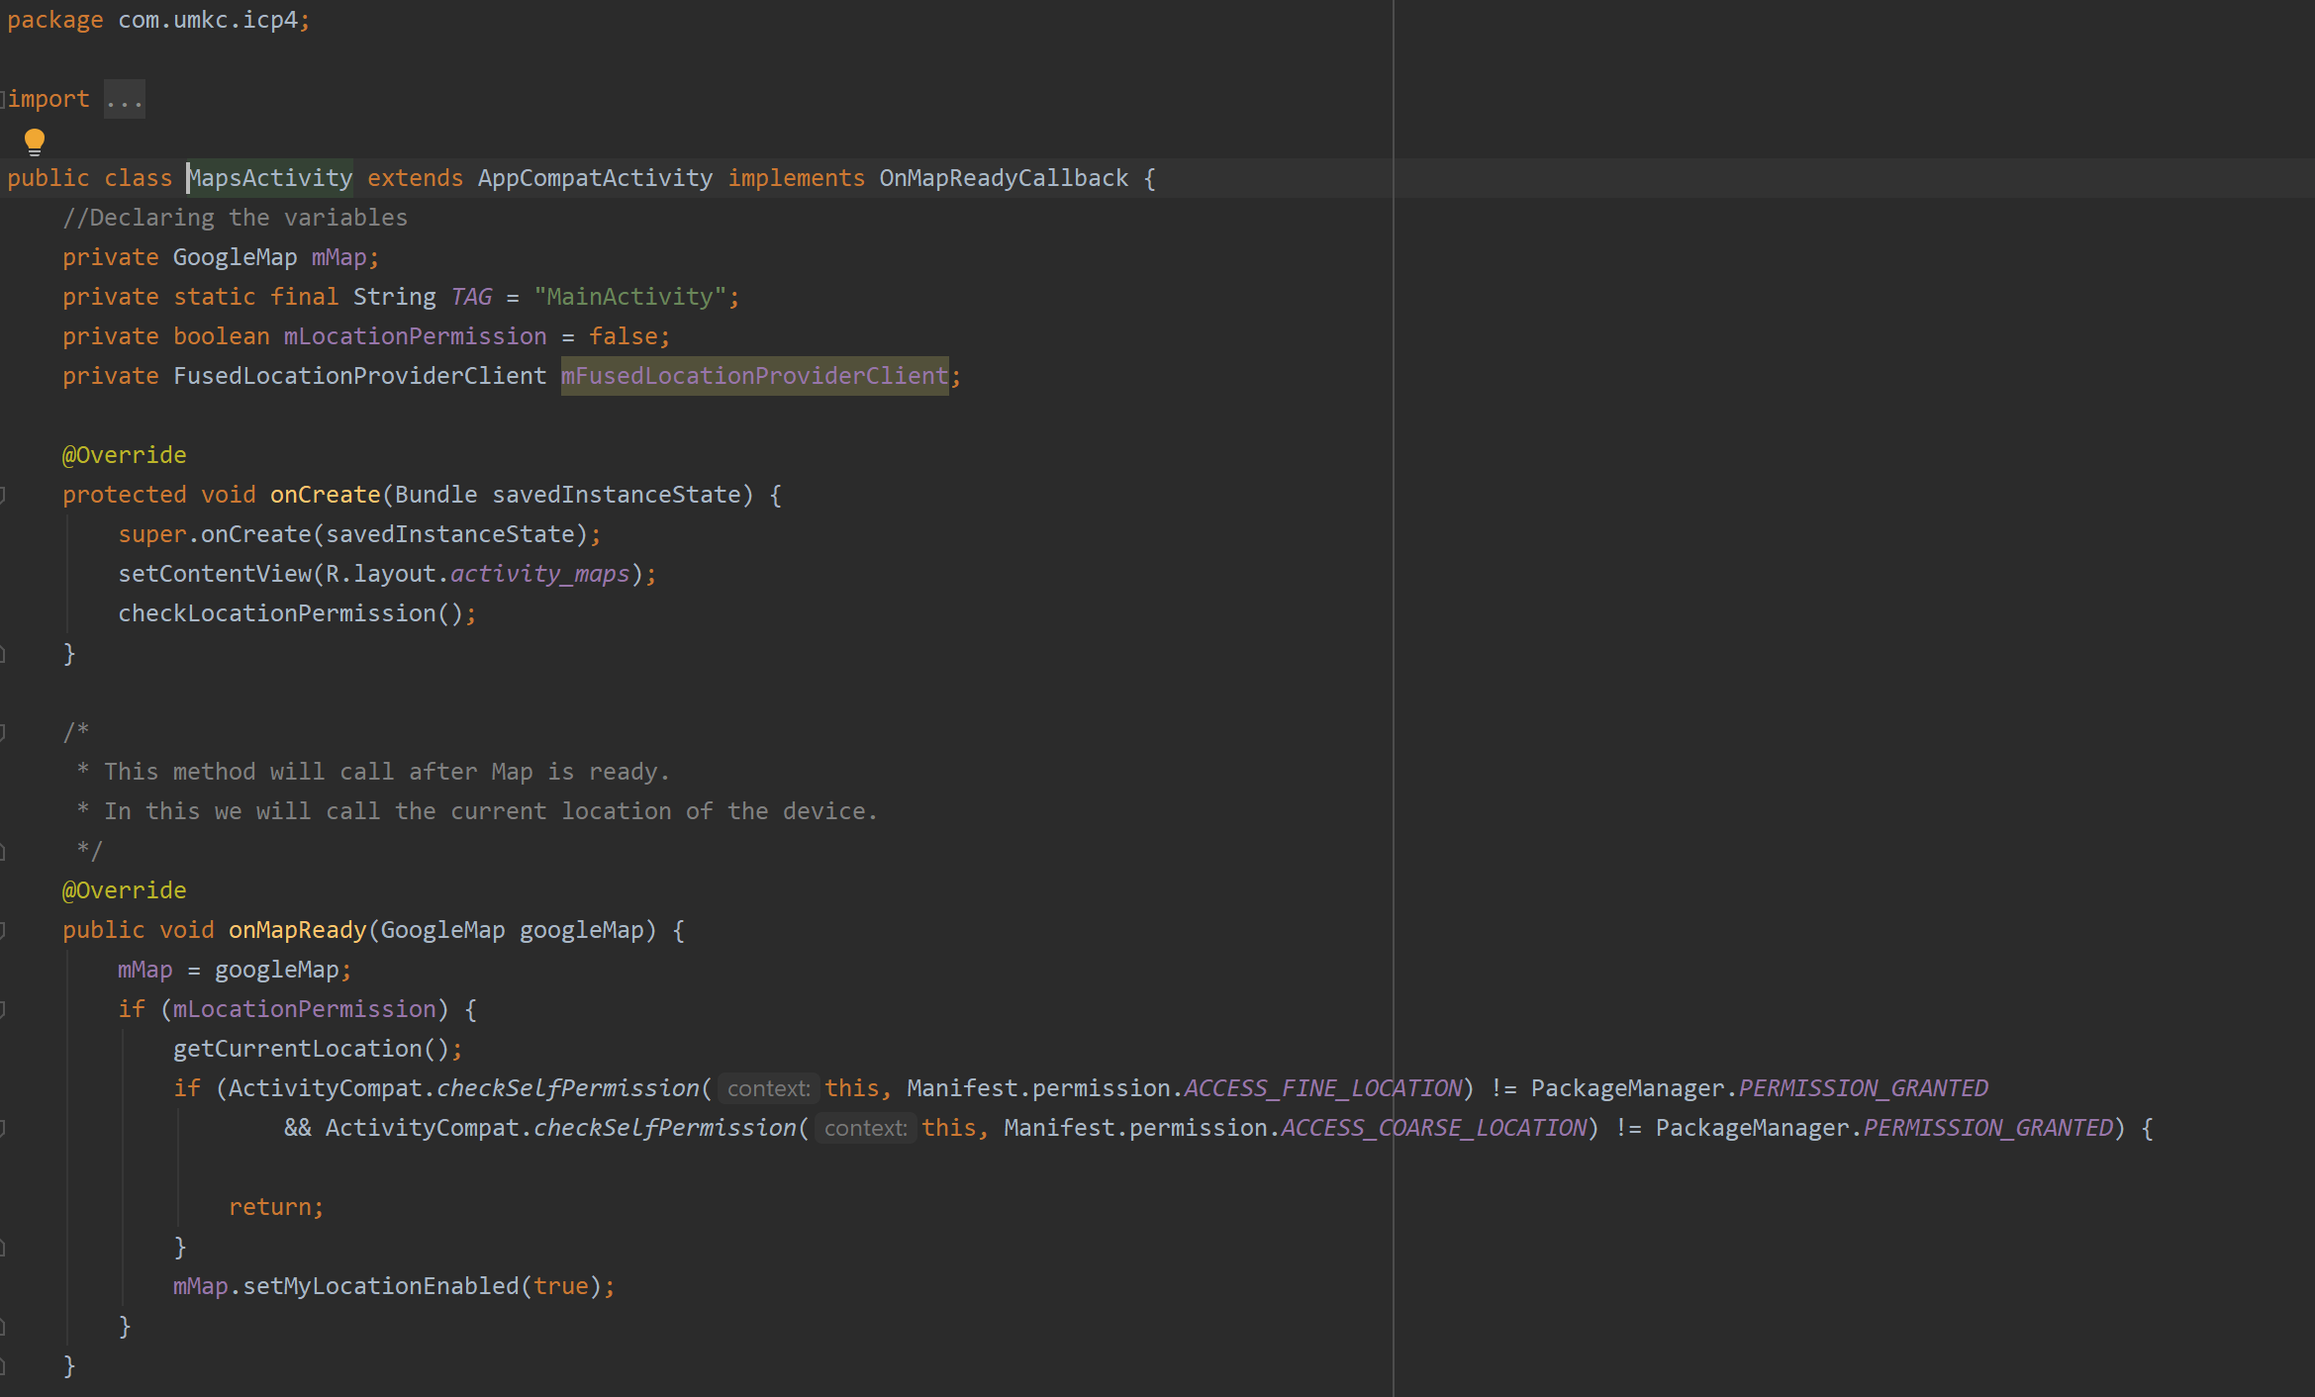
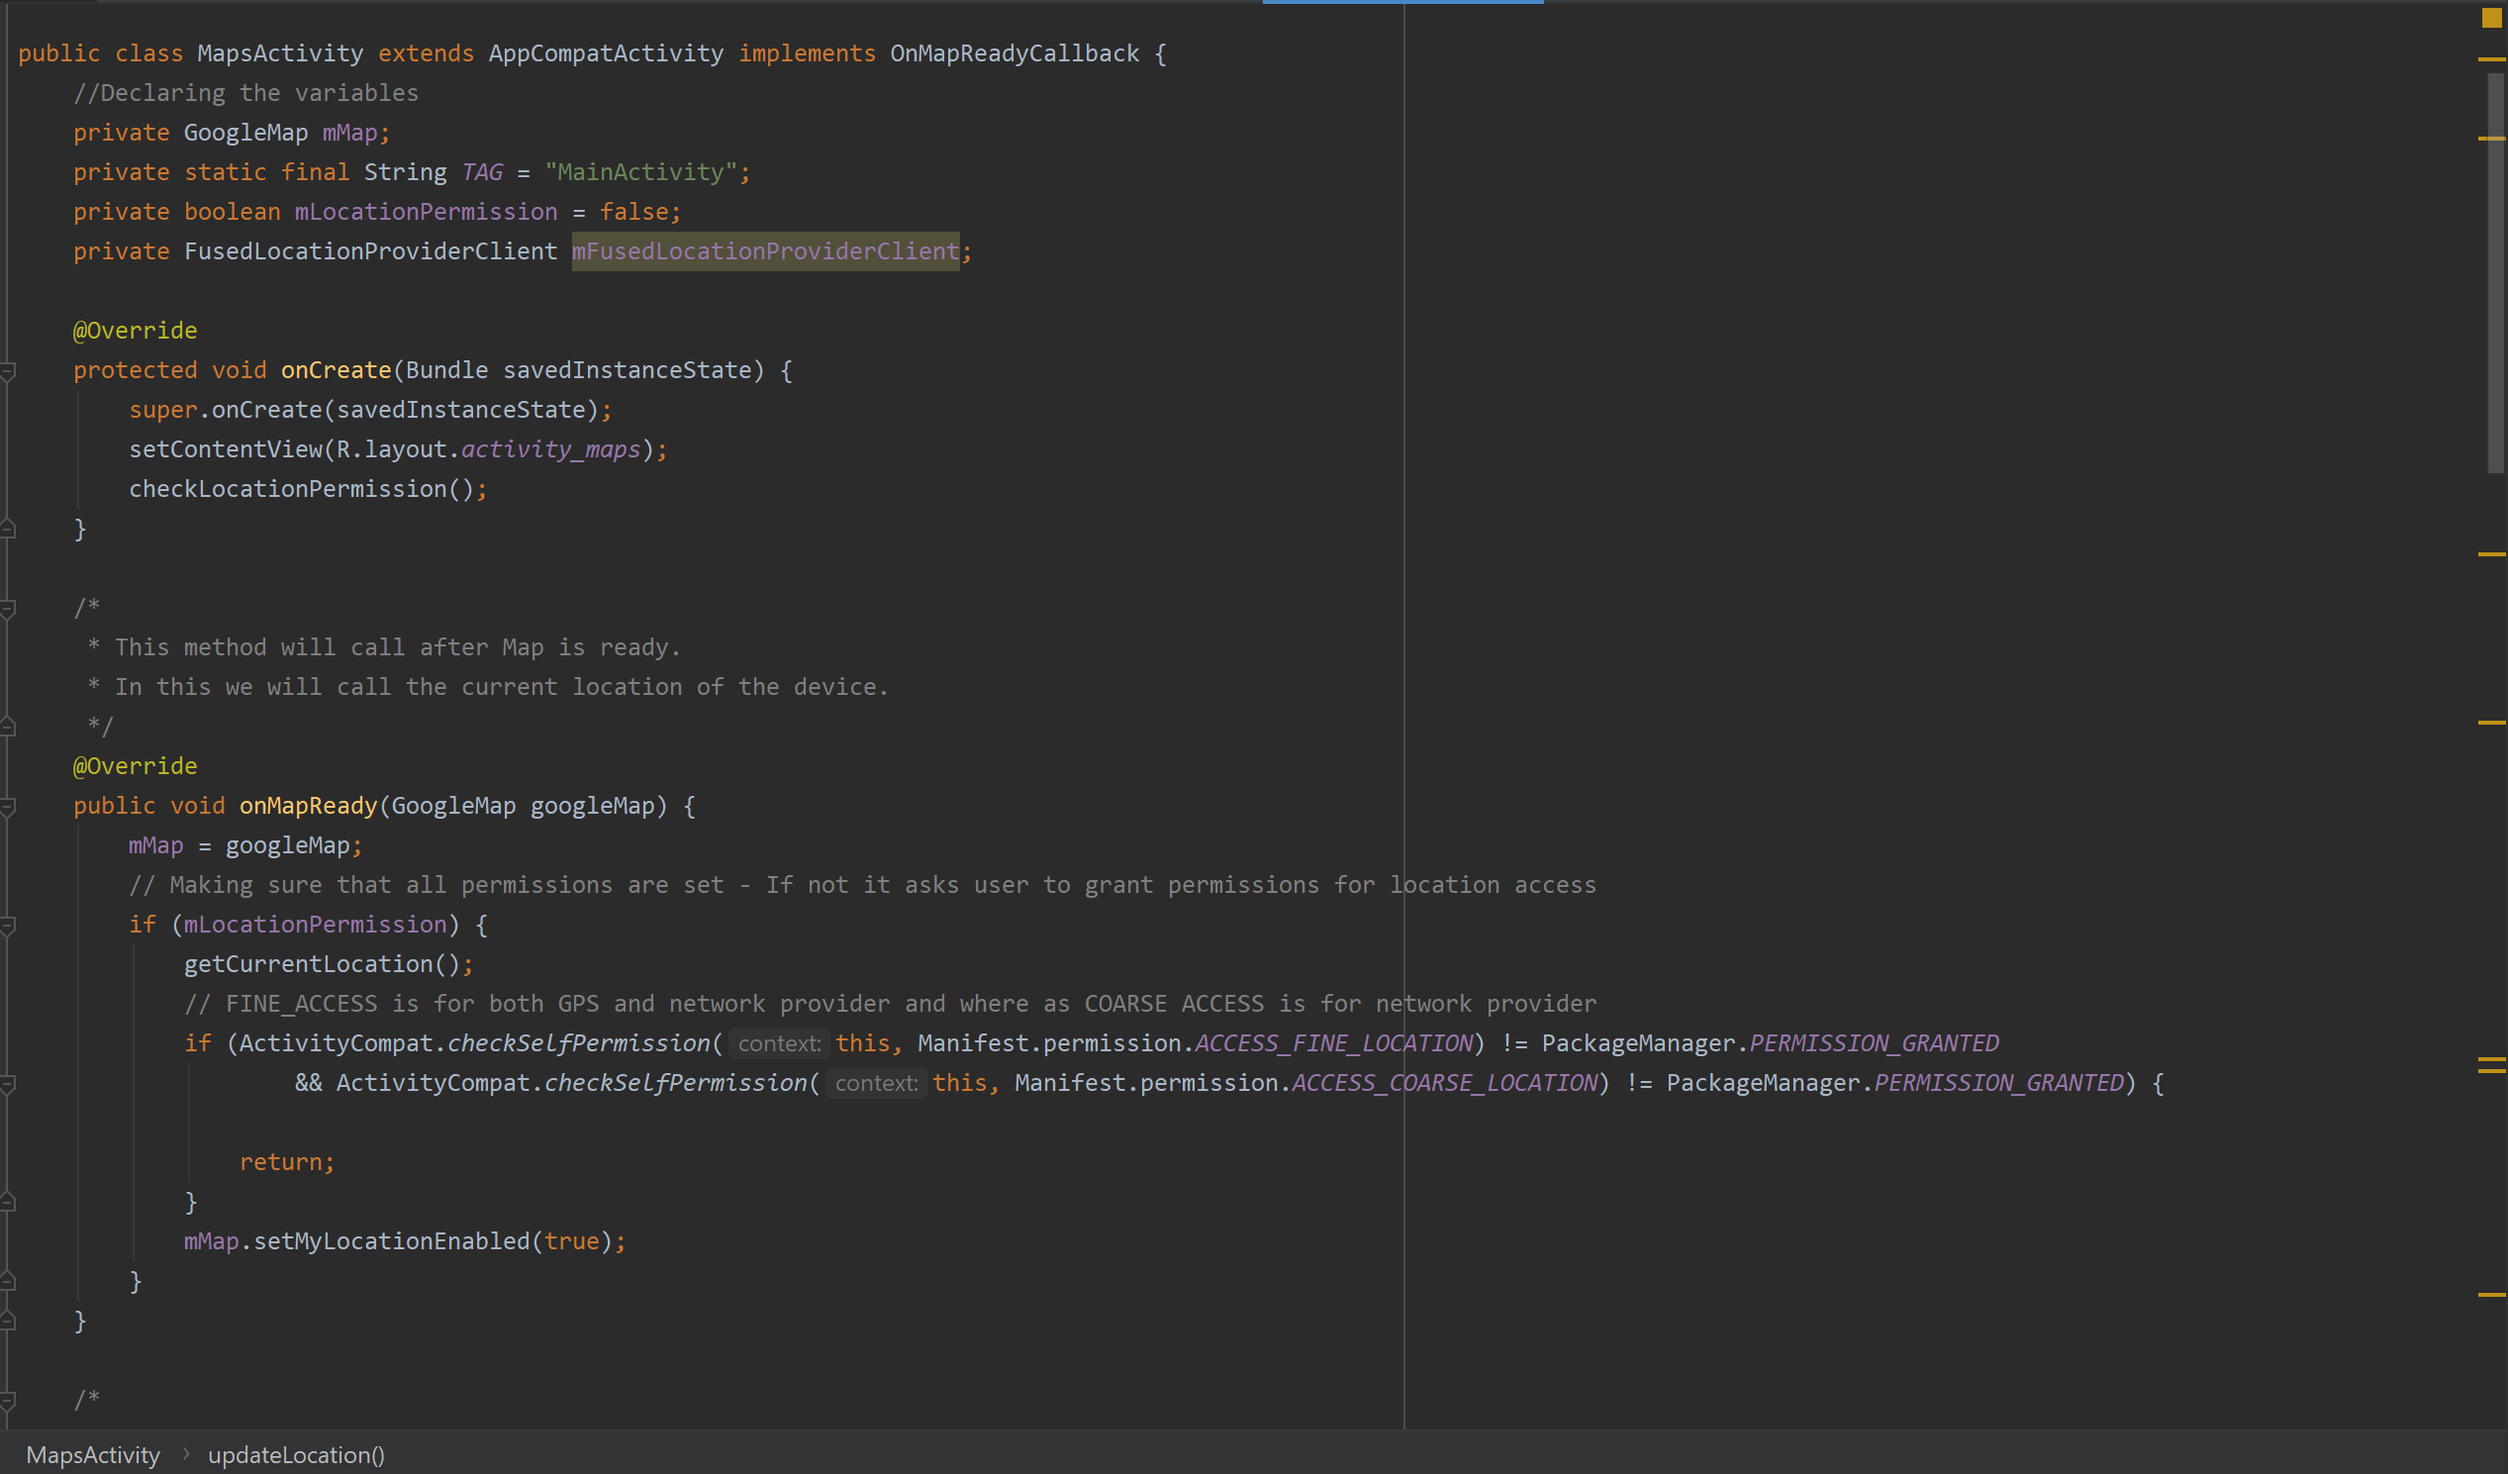
modified

diff --git a/ICP_4/StoreActivity.java b/ICP_4/StoreActivity.java
@@ -18,29 +18,34 @@ import java.text.SimpleDateFormat;
 import java.util.Date;
 
 public class StoreActivity extends AppCompatActivity {
-    EditText txtData;
-    TextView lblData;
+    EditText input;
+    TextView displayText;
     private File pathSave;
 
     @Override
     protected void onCreate(Bundle savedInstanceState) {
         super.onCreate(savedInstanceState);
         setContentView(R.layout.activity_store);
-        txtData = findViewById(R.id.txtData);
-        lblData = findViewById(R.id.lblData);
-        String timeStamp = new SimpleDateFormat("yyyyMMddHHmmss").format(new Date());
-        String filename = "sample" + timeStamp + ".txt";
+        // Get the edit text components
+        input = findViewById(R.id.txtData);
+        displayText = findViewById(R.id.lblData);
+        // Create files with the timestamp when the application is opened
+        String timeStamp = new SimpleDateFormat("yyyyMMdd").format(new Date());
+        String filename = "android" + timeStamp + ".txt";
 
+        // Get the external Path directory for saving the files
         pathSave = new File(getFilesDir(), filename);
     }
 
     public void save(View view) {
-        String text = txtData.getText().toString();
+        // Get the input entered by user
+        String text = input.getText().toString();
         FileOutputStream fos = null;
         try {
+            // Open File Stream to write the input to file in append mode
             fos = new FileOutputStream(pathSave);
             fos.write(text.getBytes());
-            txtData.getText().clear();
+            input.getText().clear();
         } catch (FileNotFoundException e) {
             e.printStackTrace();
         } catch (IOException e) {
@@ -48,6 +53,7 @@ public class StoreActivity extends AppCompatActivity {
         } finally {
             if (fos != null) {
                 try {
+                    // Should always make sure to close the file even in case of exceptions
                     fos.close();
                 } catch (IOException e) {
                     e.printStackTrace();
@@ -59,15 +65,18 @@ public class StoreActivity extends AppCompatActivity {
     public void load(View view) {
         FileInputStream fis = null;
         try {
+            // Opening file input stream to get the data from the file
             fis = new FileInputStream(pathSave);
             InputStreamReader isr = new InputStreamReader(fis);
             BufferedReader br = new BufferedReader(isr);
             StringBuilder sb = new StringBuilder();
             String text;
+            // Reading the file contents line by line
             while ((text = br.readLine()) != null) {
                 sb.append(text).append("\n");
             }
-            lblData.setText(sb.toString());
+            // Displaying the text in the view UI
+            displayText.setText(sb.toString());
         } catch (FileNotFoundException e) {
             e.printStackTrace();
         } catch (IOException e) {
@@ -75,6 +84,7 @@ public class StoreActivity extends AppCompatActivity {
         } finally {
             if (fis != null) {
                 try {
+                    // Should always close the file Input stream even in case of exceptions
                     fis.close();
                 } catch (IOException e) {
                     e.printStackTrace();

diff --git a/ICP_4/MapsActivity.java b/ICP_4/MapsActivity.java
@@ -47,8 +47,10 @@ public class MapsActivity extends AppCompatActivity implements OnMapReadyCallbac
     @Override
     public void onMapReady(GoogleMap googleMap) {
         mMap = googleMap;
+        // Making sure that all permissions are set - If not it asks user to grant permissions for location access
         if (mLocationPermission) {
             getCurrentLocation();
+            // FINE_ACCESS is for both GPS and network provider and where as COARSE ACCESS is for network provider
             if (ActivityCompat.checkSelfPermission(this, Manifest.permission.ACCESS_FINE_LOCATION) != PackageManager.PERMISSION_GRANTED
                     && ActivityCompat.checkSelfPermission(this, Manifest.permission.ACCESS_COARSE_LOCATION) != PackageManager.PERMISSION_GRANTED) {
 
@@ -65,6 +67,7 @@ public class MapsActivity extends AppCompatActivity implements OnMapReadyCallbac
     @Override
     public void onRequestPermissionsResult(int requestCode, @NonNull String[] permissions, @NonNull int[] grantResults) {
         mLocationPermission = false;
+        // If permissions granted - then initialize the map
         switch (requestCode) {
             case 2345:
                 if (grantResults.length > 0 && grantResults[0] == PackageManager.PERMISSION_GRANTED) {
@@ -136,7 +139,7 @@ public class MapsActivity extends AppCompatActivity implements OnMapReadyCallbac
      */
     private void updateLocation(LatLng latlng, float zoom){
         mMap.moveCamera(CameraUpdateFactory.newLatLngZoom(latlng,zoom));
-        // Add a marker in Sydney and move the camera
+        // Add a marker in particular lat and longitude  and then move the zoom in and zoom out
         mMap.addMarker(new MarkerOptions().position(latlng).title("Latitude : "+latlng.latitude+" "+"Longitude : "+latlng.longitude));
     }
 }

diff --git a/ICP_4/CameraActivity.java b/ICP_4/CameraActivity.java
@@ -27,8 +27,11 @@ public class CameraActivity extends AppCompatActivity {
     protected void onActivityResult(int requestCode, int resultCode, @Nullable Intent data) {
         super.onActivityResult(requestCode, resultCode, data);
         if (requestCode == CAMERA_REQ) {
+            // Get the image using BitMap
             Bitmap bitmap = (Bitmap) data.getExtras().get("data");
+            // Get the view from UI using the ID to insert the image into it
             ImageView imgV = findViewById(R.id.imgView);
+            // Then display the image in the ImageView on Android Application
             imgV.setImageBitmap(bitmap);
         }
     }
